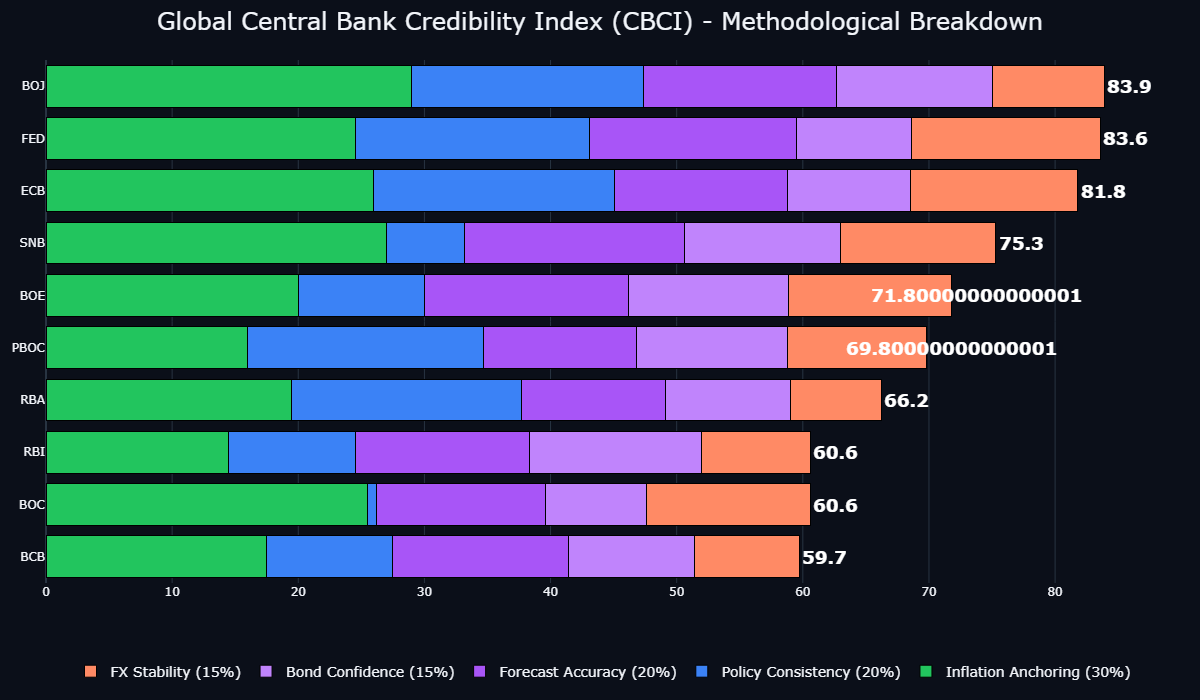
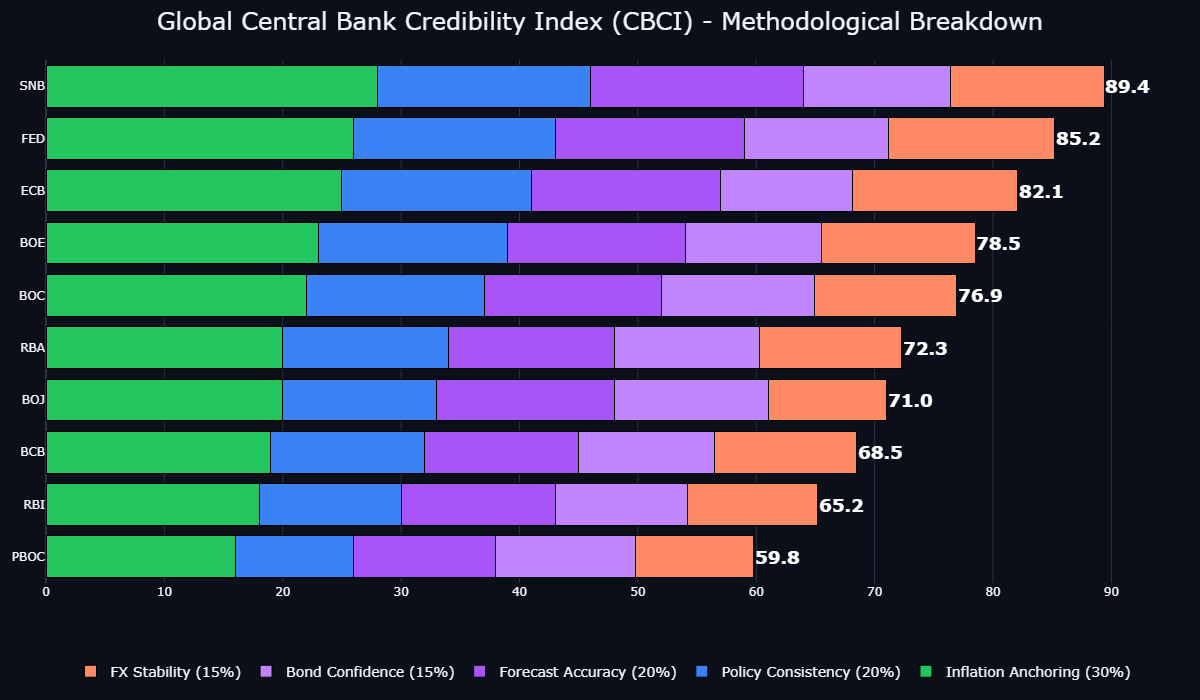
Generate Slide 5 chart with all 10 banks and exact high-quality proportional distributions

diff --git a/src/visualization/generate_whitepaper_carousel.py b/src/visualization/generate_whitepaper_carousel.py
@@ -24,7 +24,7 @@ except:
     f_reg, f_bold = 'Helvetica', 'Helvetica-Bold'
 
 # Load Data
-df_scores = pd.read_csv(os.path.join(base_dir, 'data', 'processed', 'authentic_cbci_scores.csv'))
+df_scores = pd.read_csv(os.path.join(base_dir, 'data', 'processed', 'final_cbci_scores.csv'))
 df_macro = pd.read_csv(os.path.join(base_dir, 'data', 'raw', 'fred_dgs10.csv'))
 
 # --- CHART 1: Stacked Bar Leaderboard ---